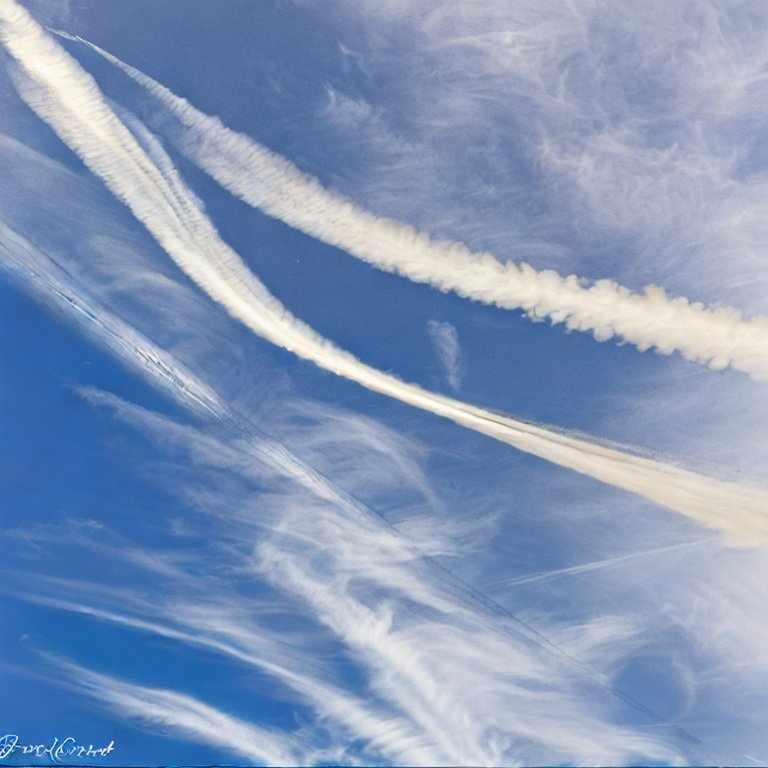
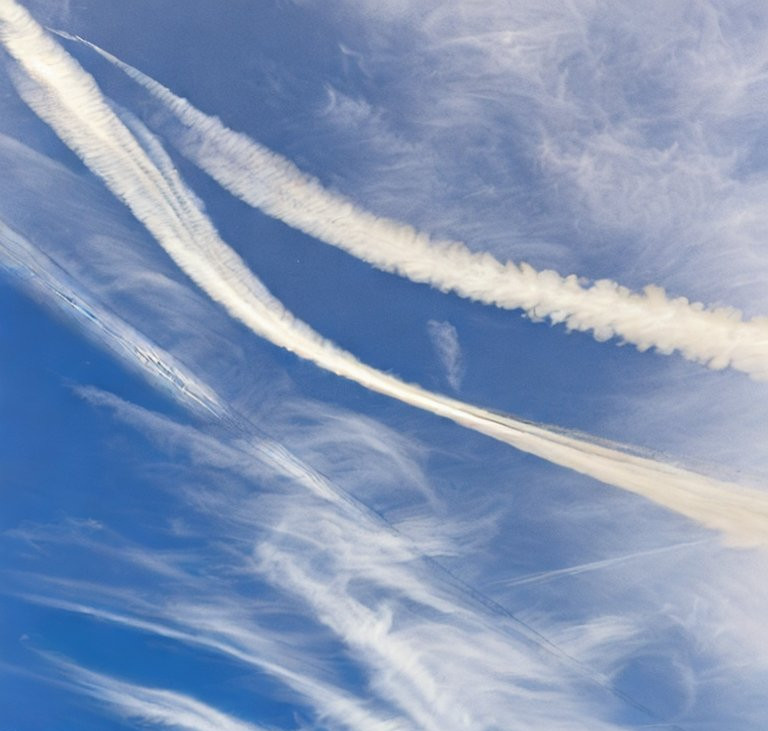
update TODO, sky backgnd fix

diff --git a/src/js/game/victory.js b/src/js/game/victory.js
@@ -27,8 +27,9 @@ export const setup = () => {
  * @param {scoreCB} cb
  */
 export const subscribeVictory = (victoryEvent, cb) => {
-  if (!VictoryEvents[victoryEvent])
+  if (!VictoryEvents[victoryEvent]) {
     throw new Error('unknown victory event: ' + victoryEvent);
+  }
   document.addEventListener(victoryEvent, () => cb());
 };
 
